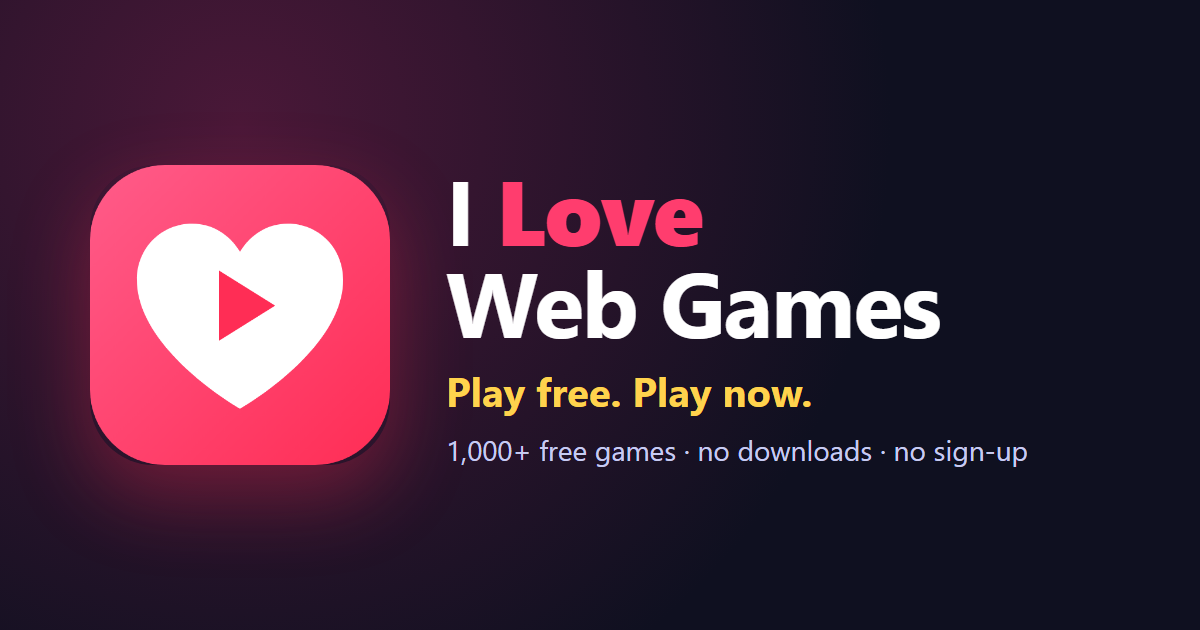
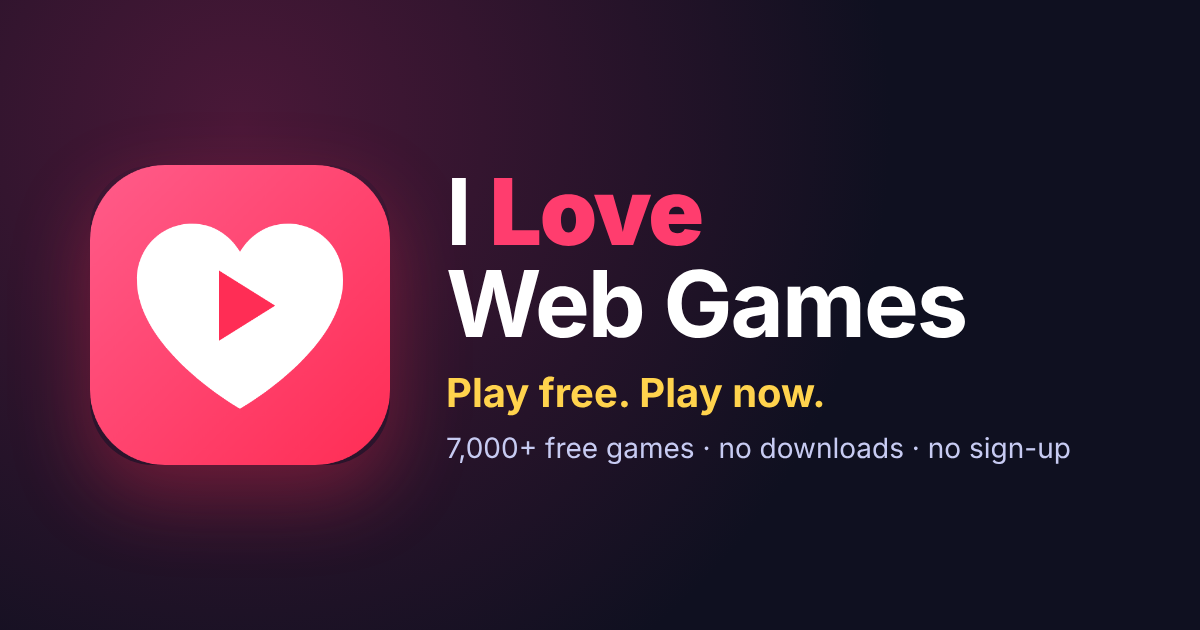
Share image: 7,000+ games instead of the old 1,000+
Claude-Session: https://claude.ai/code/session_01QDp5Y1W6xR6RayeL4jsfN8

diff --git a/scripts/og.html b/scripts/og.html
@@ -8,5 +8,5 @@ p{font-size:40px;margin:0 0 14px;color:#ffd34d;font-weight:700}
 small{font-size:28px;color:#c7cbf2}
 </style></head><body>
 <img src="../static/assets/icon-512.png">
-<div><h1>I <b>Love</b><br>Web Games</h1><p>Play free. Play now.</p><small>1,000+ free games · no downloads · no sign-up</small></div>
+<div><h1>I <b>Love</b><br>Web Games</h1><p>Play free. Play now.</p><small>7,000+ free games · no downloads · no sign-up</small></div>
 </body></html>
